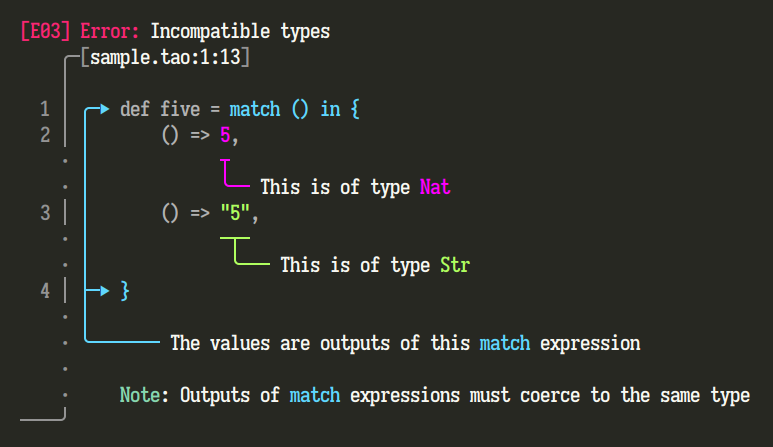
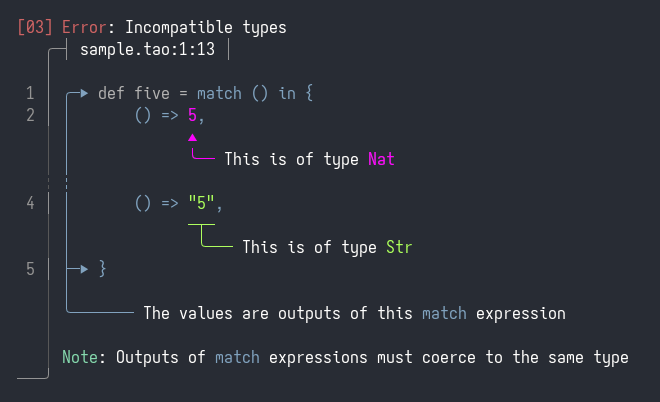
Update example image

diff --git a/examples/simple.rs b/examples/simple.rs
@@ -9,34 +9,4 @@ fn main() {
         .finish()
         .print(Source::from(include_str!("sample.tao")))
         .unwrap();
-    
-    let mut colors = ColorGenerator::new();
-
-    // Generate & choose some colours for each of our elements
-    let a = colors.next();
-    let b = colors.next();
-    let out = Color::Blue;
-    
-    Report::build(ReportKind::Error, ("sample.tao", 12..12))
-        .with_code(3)
-        .with_message(format!("Incompatible types"))
-        .with_label(Label::new(("sample.tao", 32..33))
-            .with_message(format!("This is of type {}", "Nat".fg(a)))
-            .with_color(a))
-        .with_label(Label::new(("sample.tao", 52..55))
-            .with_message(format!("This is of type {}", "Str".fg(b)))
-            .with_color(b))
-        .with_label(Label::new(("sample.tao", 11..58))
-            .with_message(format!(
-                "The values are outputs of this {} expression",
-                "match".fg(out),
-            ))
-            .with_color(out))
-        .with_note(format!(
-            "Outputs of {} expressions must coerce to the same type",
-            "match".fg(out)
-        ))
-        .finish()
-        .print(("sample.tao", Source::from(include_str!("sample.tao"))))
-        .unwrap();
 }

diff --git a/README.md b/README.md
@@ -16,9 +16,8 @@ A fancy compiler diagnostics crate.
 ```rust
 use ariadne::{Color, ColorGenerator, Fmt, Label, Report, ReportKind, Source};
 
-let mut colors = ColorGenerator::new();
-
 // Generate & choose some colours for each of our elements
+let mut colors = ColorGenerator::new();
 let a = colors.next();
 let b = colors.next();
 let out = Color::Blue;
@@ -29,54 +28,16 @@ Report::build(ReportKind::Error, ("sample.tao", 12..12))
     .with_label(Label::new(("sample.tao", 32..33))
         .with_message(format!("This is of type {}", "Nat".fg(a)))
         .with_color(a))
-    .with_label(Label::new(("sample.tao", 42..45))
+    .with_label(Label::new(("sample.tao", 52..55))
         .with_message(format!("This is of type {}", "Str".fg(b)))
         .with_color(b))
-    .with_label(Label::new(("sample.tao", 11..48))
-        .with_message(format!(
-            "The values are outputs of this {} expression",
-            "match".fg(out),
-        ))
+    .with_label(Label::new(("sample.tao", 11..58))
+        .with_message(format!("The values are outputs of this {} expression", "match".fg(out)))
         .with_color(out))
-    .with_note(format!(
-        "Outputs of {} expressions must coerce to the same type",
-        "match".fg(out)
-    ))
+    .with_note(format!("Outputs of {} expressions must coerce to the same type", "match".fg(out)))
     .finish()
-    .print(("sample.tao", Source::from(include_str!("sample.tao"))))
+    .eprint(("sample.tao", Source::from(include_str!("sample.tao"))))
     .unwrap();
-```
-
-```ansi
-[31mError[0m: Incompatible types
-[38;5;246m   [0m[38;5;246m╭[0m[38;5;246m─[0m[38;5;246m┤[0m <unknown>:2:10 [38;5;246m│[0m
-   [38;5;246m│[0m
- [38;5;246m2 │[0m [38;5;249m [0m[38;5;249m [0m[38;5;249m [0m[38;5;249m [0m[38;5;249m([0m[38;5;249m)[0m[38;5;249m [0m[38;5;249m=[0m[38;5;249m>[0m[38;5;249m [0m5[38;5;249m,[0m
- [38;5;240m  │[0m           ▲  
- [38;5;240m  │[0m           ╰── This is of type Nat
- [38;5;240m  │[0m 
- [38;5;246m4 │[0m [38;5;249m [0m[38;5;249m [0m[38;5;249m [0m[38;5;249m [0m[38;5;249m([0m[38;5;249m)[0m[38;5;249m [0m[38;5;249m=[0m[38;5;249m>[0m[38;5;249m [0m"5"[38;5;249m,[0m
- [38;5;240m  │[0m           ─┬─  
- [38;5;240m  │[0m            ╰─── This is of type Str
-[38;5;246m───╯[0m
-[31m[03] Error[0m: Incompatible types
-[38;5;246m   [0m[38;5;246m╭[0m[38;5;246m─[0m[38;5;246m┤[0m sample.tao:1:13 [38;5;246m│[0m
-   [38;5;246m│[0m
- [38;5;246m1 │[0m [34m╭[0m[34m─[0m[34m▶[0m[34m [0m[38;5;249md[0m[38;5;249me[0m[38;5;249mf[0m[38;5;249m [0m[38;5;249mf[0m[38;5;249mi[0m[38;5;249mv[0m[38;5;249me[0m[38;5;249m [0m[38;5;249m=[0m[38;5;249m [0m[34mm[0m[34ma[0m[34mt[0m[34mc[0m[34mh[0m[34m [0m[34m([0m[34m)[0m[34m [0m[34mi[0m[34mn[0m[34m [0m[34m{[0m
- [38;5;246m2 │[0m [34m│[0m   [34m [0m[34m [0m[34m [0m[34m [0m[34m([0m[34m)[0m[34m [0m[34m=[0m[34m>[0m[34m [0m[38;5;201m5[0m[34m,[0m
- [38;5;240m  │[0m [34m│[0m             [38;5;201m▲[0m  
- [38;5;240m  │[0m [34m│[0m             [38;5;201m╰[0m[38;5;201m─[0m[38;5;201m─[0m This is of type [38;5;201mNat[0m
- [38;5;240m  ┆[0m [34m┆[0m   
- [38;5;246m4 │[0m [34m│[0m   [34m [0m[34m [0m[34m [0m[34m [0m[34m([0m[34m)[0m[34m [0m[34m=[0m[34m>[0m[34m [0m[38;5;155m"[0m[38;5;155m5[0m[38;5;155m"[0m[34m,[0m
- [38;5;240m  │[0m [34m│[0m             [38;5;155m─[0m[38;5;155m┬[0m[38;5;155m─[0m  
- [38;5;240m  │[0m [34m│[0m              [38;5;155m╰[0m[38;5;155m─[0m[38;5;155m─[0m[38;5;155m─[0m This is of type [38;5;155mStr[0m
- [38;5;246m5 │[0m [34m├[0m[34m─[0m[34m▶[0m[34m [0m[34m}[0m
- [38;5;240m  │[0m [34m│[0m       
- [38;5;240m  │[0m [34m╰[0m[34m─[0m[34m─[0m[34m─[0m[34m─[0m[34m─[0m[34m─[0m[34m─[0m The values are outputs of this [34mmatch[0m expression
- [38;5;240m  │[0m 
- [38;5;240m  │[0m [38;5;115mNote[0m: Outputs of [34mmatch[0m expressions must coerce to the same type
-[38;5;246m───╯[0m
-
 ```
 
 See [`examples/`](https://github.com/zesterer/ariadne/tree/main/examples) for more examples.
